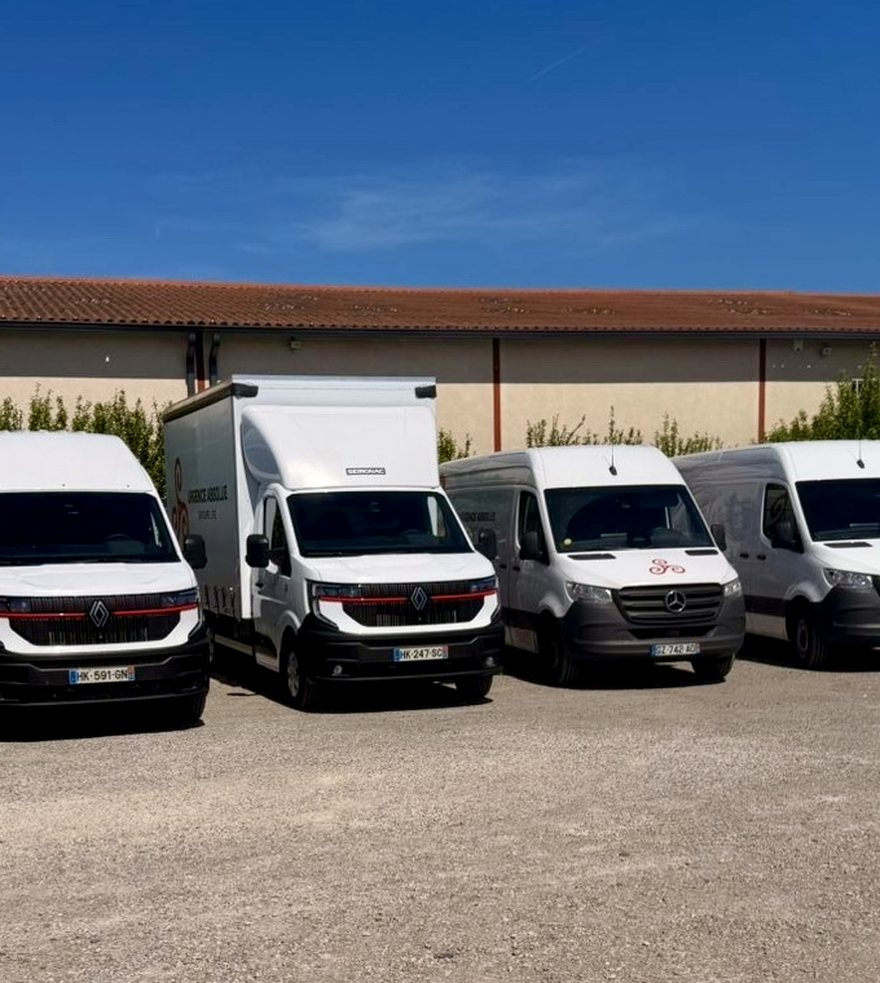
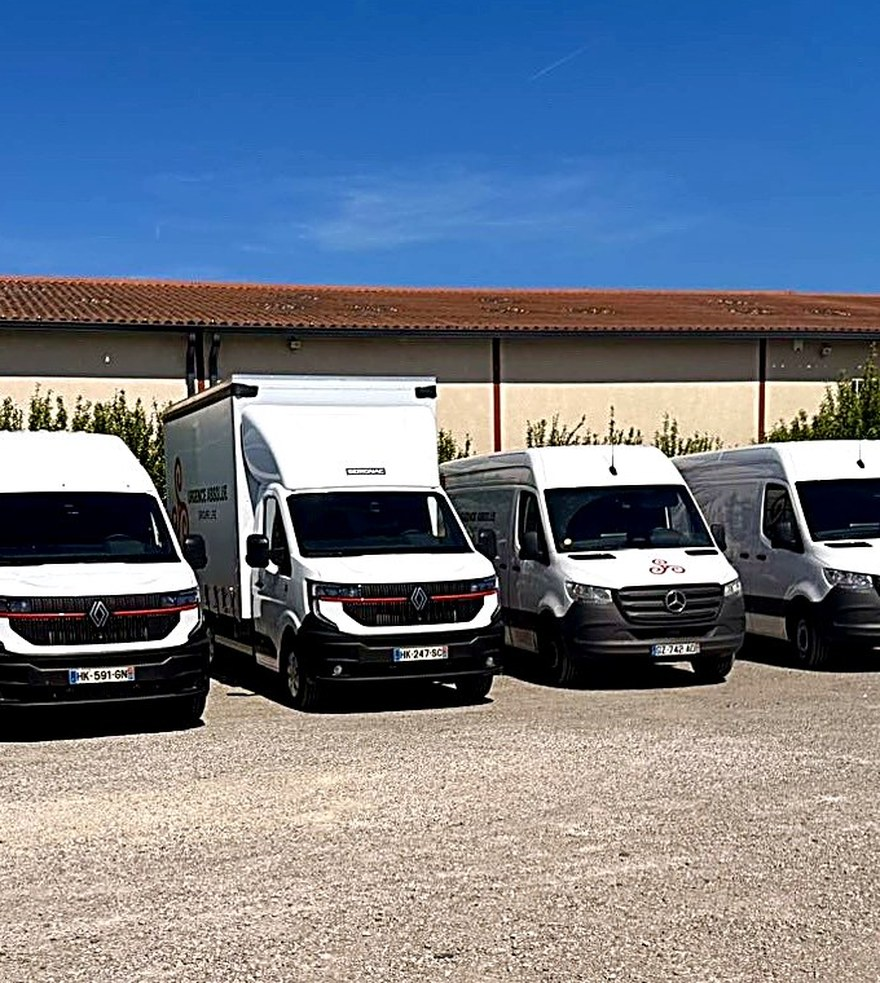
Photos hero flotte et logistique plus nettes et plus claires
Accentuation (UnsharpMask) + luminosité/contraste sur les images de
fond, et opacité relevée à .42 dans le hero pour plus de clarté.
S'applique aux versions mobile et ordinateur.

diff --git a/flotte.html b/flotte.html
@@ -84,7 +84,7 @@
 
 <!-- ================= PAGE HERO ================= -->
 <section class="page-hero has-img" aria-labelledby="page-title">
-  <div class="ph-img"><picture><source media="(max-width:760px)" srcset="assets/img/flotte-hero-mobile.jpg"/><img src="assets/img/flotte-hero.jpg" alt="" aria-hidden="true" /></picture></div>
+  <div class="ph-img"><picture><source media="(max-width:760px)" srcset="assets/img/flotte-hero-mobile.jpg"/><img src="assets/img/flotte-hero.jpg" alt="" aria-hidden="true" style="opacity:.42" /></picture></div>
   <div class="wrap">
     <nav class="breadcrumb" aria-label="Fil d'Ariane">
       <a href="index.html">Accueil</a><span class="sep">›</span><span class="cur">Flotte</span>

diff --git a/logistique.html b/logistique.html
@@ -216,7 +216,7 @@
 
 <!-- ================= PAGE HERO ================= -->
 <section class="page-hero has-img" aria-labelledby="page-title">
-  <div class="ph-img"><img src="assets/img/entrepot-exterieur.jpg" alt="" aria-hidden="true" /></div>
+  <div class="ph-img"><img src="assets/img/entrepot-exterieur.jpg" alt="" aria-hidden="true" style="opacity:.42" /></div>
   <div class="wrap">
     <nav class="breadcrumb" aria-label="Fil d'Ariane">
       <a href="index.html">Accueil</a><span class="sep">›</span><span class="cur">Logistique &amp; stockage</span>